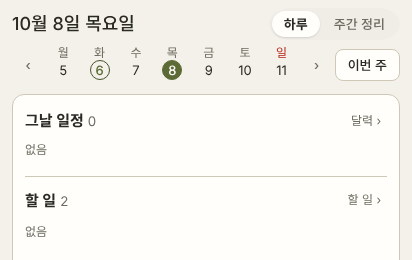
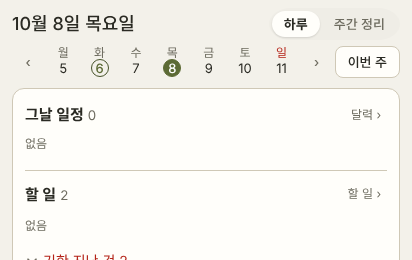
홈 날짜 줄 칸 높이를 32px 그대로 두고 두 줄로 맞춤 (키보드 가림 시험 1px 차이 해소)
Claude-Session: https://claude.ai/code/session_01QdB5NM1tPEjm5avWM6WUHx

diff --git a/app/journal.css b/app/journal.css
@@ -443,13 +443,13 @@
 #appView #homeView .journal-head .journal-week-nav{ gap:2px; min-width:0; }
 #appView #homeView .journal-head .journal-mode-switch{ margin-left:auto; }
 #appView #homeView .journal-head .journal-days{ display:flex; gap:2px; }
-#appView #homeView .journal-head .journal-date{ flex:0 0 auto; width:auto; min-width:32px; min-height:38px; height:38px; padding:2px 4px 5px; flex-direction:column; justify-content:flex-start; align-items:center; gap:1px; border-color:transparent; background:transparent; }
-/* HOME-날짜줄고른날(S60-2, 명진 11/12 "그리고 일 요일 지금 방식 어색", 시안 #2431이 S57-16 한 줄 '수 11'을 대체): 요일은 위에 작게, 날짜는 아래 두 줄(폰·폴드·PC 모두). 높이 38px(한 줄 32px보다 6px).
+#appView #homeView .journal-head .journal-date{ flex:0 0 auto; width:auto; min-width:32px; min-height:32px; height:32px; padding:0 4px 2px; flex-direction:column; justify-content:flex-start; align-items:center; gap:0; border-color:transparent; background:transparent; }
+/* HOME-날짜줄고른날(S60-2, 명진 11/12 "그리고 일 요일 지금 방식 어색", 시안 #2431이 S57-16 한 줄 '수 11'을 대체): 요일은 위에 작게, 날짜는 아래 두 줄(폰·폴드·PC 모두). 높이는 옆 단추와 같은 32px 그대로.
    오늘·고른 날 표시는 위 HOME-날짜줄고른날 묶음(동그라미)이다. 한 줄 쓴 날 점은 그대로. */
 #appView #homeView .journal-head .journal-weekday{ margin:0; line-height:1; }
-#appView #homeView .journal-head .journal-num{ min-width:20px; width:20px; height:20px; padding:0; }
+#appView #homeView .journal-head .journal-num{ min-width:18px; width:18px; height:18px; padding:0; }
 @media(min-width:761px){ #appView #homeView .journal-head .journal-date{ min-width:44px; } }
-#appView #homeView .journal-head .journal-dot{ bottom:1px; width:4px; height:4px; margin-left:-2px; }
+#appView #homeView .journal-head .journal-dot{ top:3px; bottom:auto; left:calc(50% + 8px); width:4px; height:4px; margin-left:0; }
 /* 폰: 첫 줄 = 날짜 제목 + [하루|주간 정리], 둘째 줄 = ‹ 날짜 7칸 › 이번 주(폭에 맞춰 줄어듦, 가로 넘침 없음). */
 @media(max-width:760px){
   #appView #homeView .journal-day-title{ flex:1 1 auto; order:-2; }
